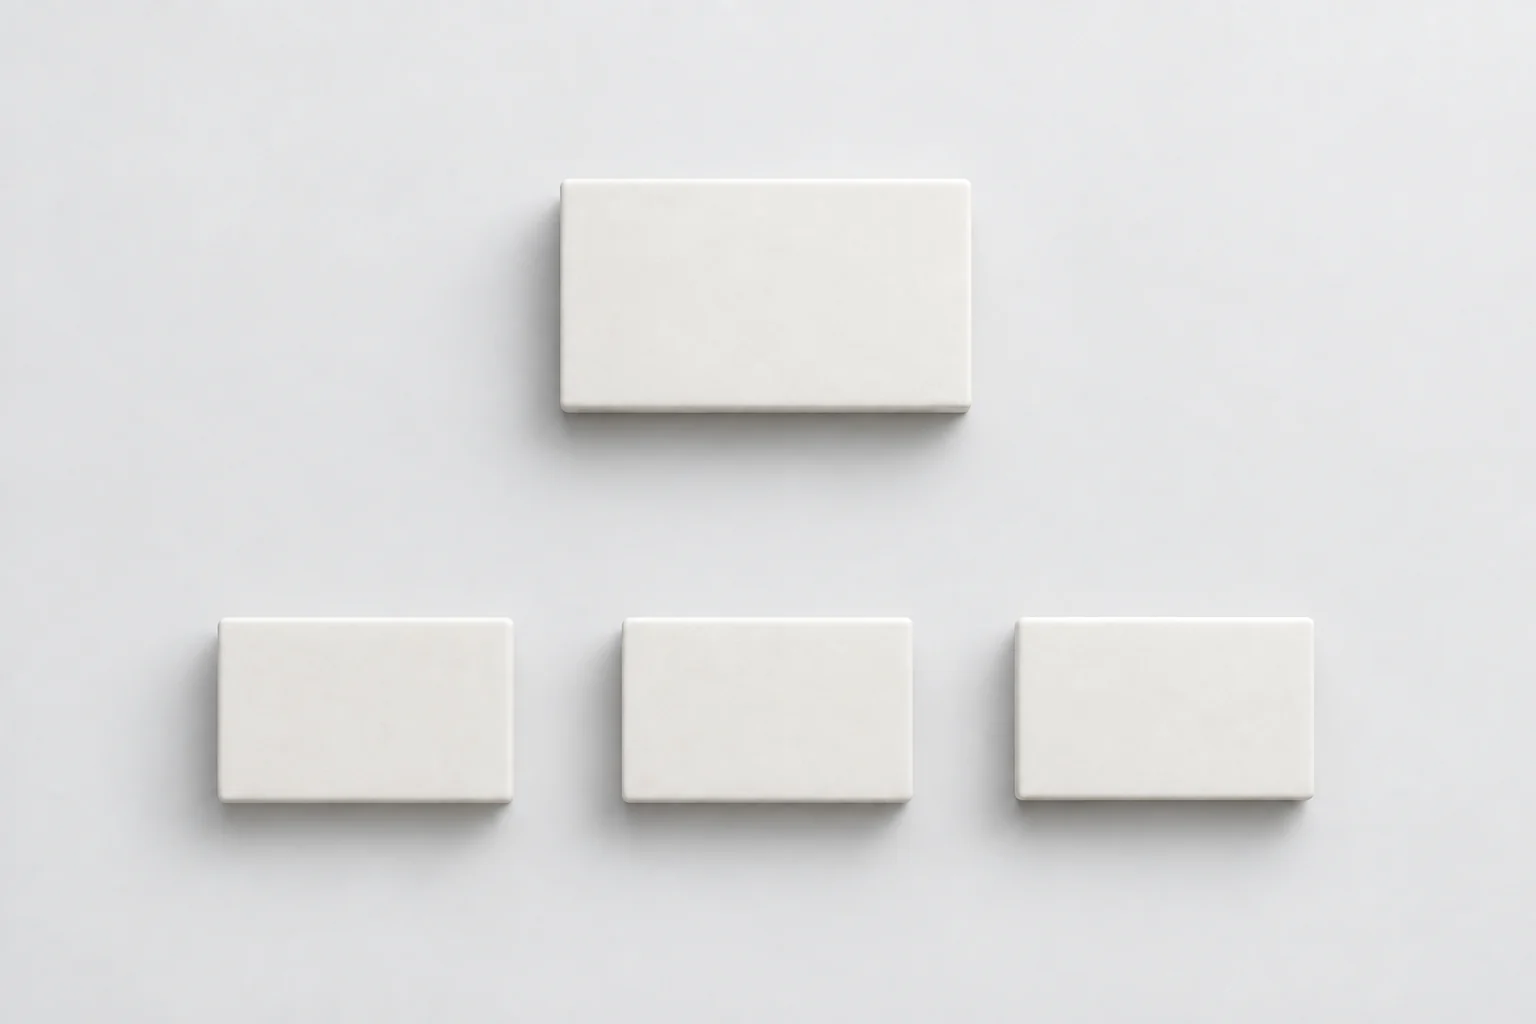
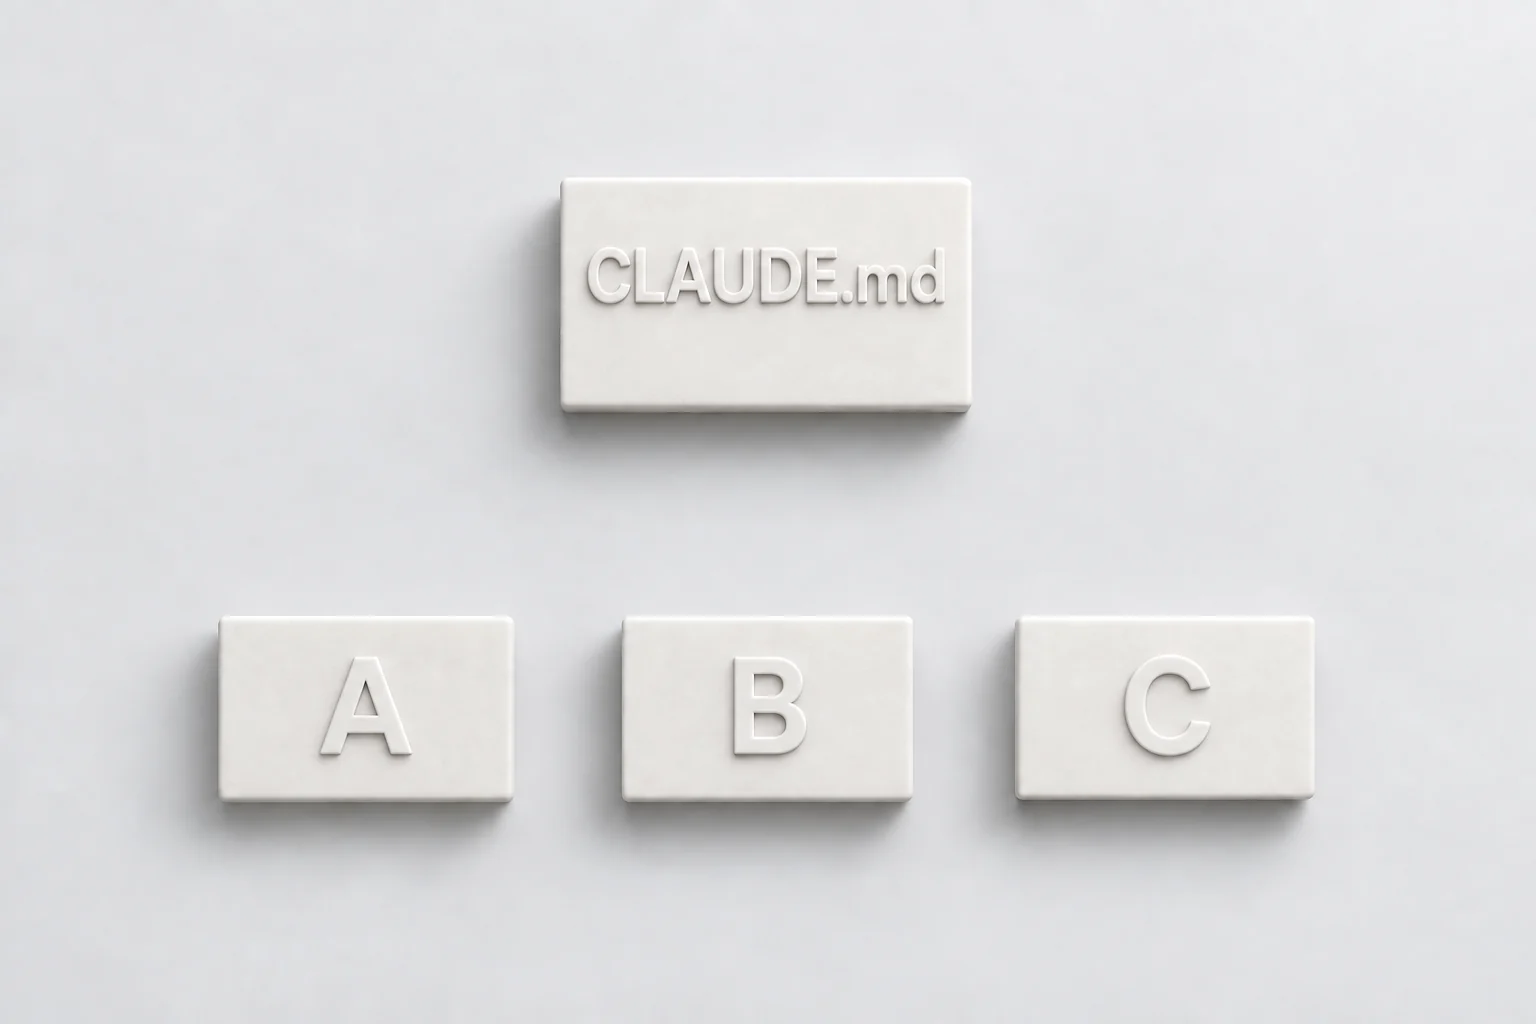
feat(web): 클레이 그림에 글씨 — 위 카드 CLAUDE.md · 아래 A·B·C · 단계 2 v1.1.0 · 단계 3 Roadmap (Codex 재생성 · 같은 구도)
사용자: 「클레이에 글씨들이 없잖아」. 여덟 장을 참고 이미지(-i)로 주고 새겨진 글씨만 더해 다시 뽑았다 —
전부 제품에 실제로 있는 이름·버전(데모 v1.1.0 · Before/After 의 A·B·C)이라 그림이 주장을 지어내지 않는다.
- public/art/*.webp 여덟 갈아 끼움 · art.ts 의 alt 에 글씨를 적음 · 원본·프롬프트·시트·GIF 는 evidence/…/art/labeled/

diff --git a/apps/web/src/lib/web/art.ts b/apps/web/src/lib/web/art.ts
@@ -5,7 +5,9 @@
 //    `.png` 0건). 그림 경로가 화면 코드에 박히면 그 규칙이 무너진다. ② og 이미지·랜딩이 같은 그림을 읽는다.
 //  ★ 그림은 **사람이 고른 생성 이미지**다 — 로컬 Codex CLI(imagegen)가 만든 후보를 보여 주고 사용자가 골랐다
 //    (`docs/evidence/2026-09-10-redesign/art/`). 코드로 그린 그림(SVG·Pillow)은 두지 않는다 — 사용자 지시.
-//  ⚠ 파일은 `public/art/` 의 WebP 다 (1536×1024 · 클레이 그림이라 16KB 안팎). 원본 PNG 는 evidence 에.
+//  ⚠ 파일은 `public/art/` 의 WebP 다 (1536×1024 · 클레이 그림이라 20KB 안팎). 원본 PNG 는 evidence 에.
+//  ⚠ 카드에는 글씨가 새겨져 있다(2026-09-10 사용자: 「클레이에 글씨들이 없잖아」) — 위 카드 `CLAUDE.md` · 아래 `A`·`B`·`C` · 단계 2 의 `v1.1.0` ·
+//     단계 3 의 `Roadmap`. 전부 제품에 실제로 있는 이름·버전(데모 v1.1.0 · Before/After 의 A·B·C)이다 — 없는 숫자·판정을 새기지 마라.
 //  ⚠ 대체텍스트는 **그림이 무엇인지**만 말한다 — 제품의 주장(숫자·판정)을 그림에 싣지 않는다 (DESIGN_BRIEF §2-1).
 // =====================================================================
 
@@ -22,7 +24,7 @@ export const ART = {
     src: '/art/hero-pack.webp',
     width: 1536,
     height: 1024,
-    alt: '두꺼운 카드 한 장에서 검은 실 세 가닥이 갈라져 아래의 똑같은 카드 셋에 닿는 클레이 그림 — 승인된 Pack 하나가 모든 기기에 같은 버전으로 닿는다',
+    alt: '「CLAUDE.md」라 새겨진 두꺼운 카드 한 장에서 검은 실 세 가닥이 갈라져 아래의 A·B·C 카드 셋에 닿는 클레이 그림 — 승인된 Pack 하나가 모든 기기에 같은 버전으로 닿는다',
   },
   /**
    * 히어로 스톱모션 — 같은 장면을 Codex 가 4장 더 뽑았다(실이 위 카드에서 세 기기로 내려오는 중간 장면 · 실 길이만 다르다).
@@ -45,19 +47,19 @@ export const ART = {
       src: '/art/step-make.webp',
       width: 1536,
       height: 1024,
-      alt: '얇은 클레이 판 다섯 장이 쌓여 있고 거기서 나온 검은 실들이 오른쪽의 두꺼운 카드 한 장으로 모이는 그림 — 문서에서 항목을 뽑아 하나로 정리한다',
+      alt: '얇은 클레이 판 다섯 장이 쌓여 있고 거기서 나온 검은 실들이 오른쪽의 「CLAUDE.md」 카드 한 장으로 모이는 그림 — 문서에서 항목을 뽑아 하나로 정리한다',
     },
     {
       src: '/art/step-distribute.webp',
       width: 1536,
       height: 1024,
-      alt: '똑같은 두꺼운 클레이 카드 셋이 한 줄로 서 있고 검은 실 하나가 셋을 같은 높이로 꿰뚫는 그림 — 같은 버전이 모두에게 닿는다',
+      alt: 'A·B·C 라 새겨진 클레이 카드 셋(각각 v1.1.0)이 한 줄로 서 있고 검은 실 하나가 셋을 같은 높이로 꿰뚫는 그림 — 같은 버전이 모두에게 닿는다',
     },
     {
       src: '/art/step-progress.webp',
       width: 1536,
       height: 1024,
-      alt: '긴 클레이 레일에 검은 조각이 왼쪽부터 삼분의 일 채워져 있고 옆에 확인 표시가 새겨진 작은 타일이 있는 그림 — 진행은 근거만큼 차고 완료는 사람이 확인한다',
+      alt: '「Roadmap」이라 새겨진 긴 클레이 레일에 검은 조각이 왼쪽부터 삼분의 일 채워져 있고 옆에 확인 표시가 새겨진 작은 타일이 있는 그림 — 진행은 근거만큼 차고 완료는 사람이 확인한다',
     },
   ] as readonly Artwork[],
 } as const

diff --git a/docs/evidence/2026-09-10-redesign/art/labeled/prompts-labeled.md b/docs/evidence/2026-09-10-redesign/art/labeled/prompts-labeled.md
@@ -1,0 +1,64 @@
+# Exact image edit prompts
+
+Generated with the built-in image generation tool in reference/edit mode.
+
+## frame-1.png
+
+```text
+Use case: precise-object-edit. Edit the supplied reference image, changing ONLY the requested embossed labels. Preserve exactly the reference style, composition, camera, lighting, matte white clay texture, light gray background, object positions, sizes, rounded edges, shadows, and black threads including their precise lengths and curves. Output one PNG at exactly 1536x1024 pixels. All text must be raised embossed SAME matte white clay with subtle contact shadows, clean neutral sans-serif, clearly legible. No ink, engraving, dark lettering, captions, watermarks, or other writing.
+Edit target: frame-1.png, frame 1 of a matching stop-motion sequence. Top thick card: centered one-line text exactly "CLAUDE.md". Bottom three cards: one large centered letter each, left to right exactly "A", "B", "C". Keep identical label size and placement across the five frames. No threads at all.
+```
+
+## frame-2.png
+
+```text
+Use case: precise-object-edit. Edit the supplied reference image, changing ONLY the requested embossed labels. Preserve exactly the reference style, composition, camera, lighting, matte white clay texture, light gray background, object positions, sizes, rounded edges, shadows, and black threads including their precise lengths and curves. Output one PNG at exactly 1536x1024 pixels. All text must be raised embossed SAME matte white clay with subtle contact shadows, clean neutral sans-serif, clearly legible. No ink, engraving, dark lettering, captions, watermarks, or other writing.
+Edit target: frame-2.png, frame 2 of a matching stop-motion sequence. Top thick card: centered one-line text exactly "CLAUDE.md". Bottom three cards: one large centered letter each, left to right exactly "A", "B", "C". Keep identical label size and placement across the five frames. Three short thread stubs only, identical to reference.
+Second input is the labeled frame-1 style/typography reference only: match its embossed lettering size, position, and appearance. First input is the edit target and strictly controls threads.
+```
+
+## frame-3.png
+
+```text
+Use case: precise-object-edit. Edit the supplied reference image, changing ONLY the requested embossed labels. Preserve exactly the reference style, composition, camera, lighting, matte white clay texture, light gray background, object positions, sizes, rounded edges, shadows, and black threads including their precise lengths and curves. Output one PNG at exactly 1536x1024 pixels. All text must be raised embossed SAME matte white clay with subtle contact shadows, clean neutral sans-serif, clearly legible. No ink, engraving, dark lettering, captions, watermarks, or other writing.
+Edit target: frame-3.png, frame 3 of a matching stop-motion sequence. Top thick card: centered one-line text exactly "CLAUDE.md". Bottom three cards: one large centered letter each, left to right exactly "A", "B", "C". Keep identical label size and placement across the five frames. Three threads extending halfway down the gap, identical to reference.
+Second input is the labeled frame-1 style/typography reference only: match its embossed lettering size, position, and appearance. First input is the edit target and strictly controls threads.
+```
+
+## frame-4.png
+
+```text
+Use case: precise-object-edit. Edit the supplied reference image, changing ONLY the requested embossed labels. Preserve exactly the reference style, composition, camera, lighting, matte white clay texture, light gray background, object positions, sizes, rounded edges, shadows, and black threads including their precise lengths and curves. Output one PNG at exactly 1536x1024 pixels. All text must be raised embossed SAME matte white clay with subtle contact shadows, clean neutral sans-serif, clearly legible. No ink, engraving, dark lettering, captions, watermarks, or other writing.
+Edit target: frame-4.png, frame 4 of a matching stop-motion sequence. Top thick card: centered one-line text exactly "CLAUDE.md". Bottom three cards: one large centered letter each, left to right exactly "A", "B", "C". Keep identical label size and placement across the five frames. Three threads extending three quarters down the gap, still disconnected, identical to reference.
+Second input is the labeled frame-1 style/typography reference only: match its embossed lettering size, position, and appearance. First input is the edit target and strictly controls threads.
+```
+
+## frame-5.png
+
+```text
+Use case: precise-object-edit. Edit the supplied reference image, changing ONLY the requested embossed labels. Preserve exactly the reference style, composition, camera, lighting, matte white clay texture, light gray background, object positions, sizes, rounded edges, shadows, and black threads including their precise lengths and curves. Output one PNG at exactly 1536x1024 pixels. All text must be raised embossed SAME matte white clay with subtle contact shadows, clean neutral sans-serif, clearly legible. No ink, engraving, dark lettering, captions, watermarks, or other writing.
+Edit target: frame-5.png, frame 5 of a matching stop-motion sequence. Top thick card: centered one-line text exactly "CLAUDE.md". Bottom three cards: one large centered letter each, left to right exactly "A", "B", "C". Keep identical label size and placement across the five frames. Three threads fully connected to the lower cards, identical to reference.
+Second input is the labeled frame-1 style/typography reference only: match its embossed lettering size, position, and appearance. First input is the edit target and strictly controls threads.
+```
+
+## step-1.png
+
+```text
+Use case: precise-object-edit. Edit the supplied reference image, changing ONLY the requested embossed labels. Preserve exactly the reference style, composition, camera, lighting, matte white clay texture, light gray background, object positions, sizes, rounded edges, shadows, and black threads including their precise lengths and curves. Output one PNG at exactly 1536x1024 pixels. All text must be raised embossed SAME matte white clay with subtle contact shadows, clean neutral sans-serif, clearly legible. No ink, engraving, dark lettering, captions, watermarks, or other writing.
+Edit target: step-1.png. Preserve the stack of thin blank sheets on the left, the converging threads, and thick card on the right. Emboss exactly "CLAUDE.md" centered on one line on the right thick card. All thin sheets remain blank.
+```
+
+## step-2.png
+
+```text
+Use case: precise-object-edit. Edit the supplied reference image, changing ONLY the requested embossed labels. Preserve exactly the reference style, composition, camera, lighting, matte white clay texture, light gray background, object positions, sizes, rounded edges, shadows, and black threads including their precise lengths and curves. Output one PNG at exactly 1536x1024 pixels. All text must be raised embossed SAME matte white clay with subtle contact shadows, clean neutral sans-serif, clearly legible. No ink, engraving, dark lettering, captions, watermarks, or other writing.
+Edit target: step-2.png. Preserve three identical thick cards in a horizontal row and the single black thread through all three. Emboss one large centered letter on each card, left to right exactly "A", "B", "C". Under each letter, emboss a smaller centered second line exactly "v1.1.0".
+```
+
+## step-3.png
+
+```text
+Use case: precise-object-edit. Edit the supplied reference image, changing ONLY the requested embossed labels. Preserve exactly the reference style, composition, camera, lighting, matte white clay texture, light gray background, object positions, sizes, rounded edges, shadows, and black threads including their precise lengths and curves. Output one PNG at exactly 1536x1024 pixels. All text must be raised embossed SAME matte white clay with subtle contact shadows, clean neutral sans-serif, clearly legible. No ink, engraving, dark lettering, captions, watermarks, or other writing.
+Edit target: step-3.png. Preserve the long rounded rail with its dark segment filling one third and the small square tile with its raised check mark. Emboss exactly "Roadmap" in small legible letters centered on the rail's upper edge area, above the recessed track. Keep the tile's check mark shape exactly and put no text on the tile.
+```
+

diff --git a/docs/STATUS.md b/docs/STATUS.md
@@ -5,7 +5,7 @@
 > **한 일이 아니라 잰 것을 써라.**
 > 「API 작업함」 ✗ / 「publish 409 재현 테스트 3개 초록, Pack 파일 6개, manifest_hash 고정」 ○
 
-_마지막 갱신: 2026-09-10 낮 · 사람 세션(루프 밖 · `loop/STOP` 그대로) · **프론트를 웜 화이트 한 벌로 리디자인**(Taste MCP anti-slop 지침 · 글꼴 저장소 안 · ci GREEN · 아직 push 전) · production <https://contextops-rosy.vercel.app> 은 아직 옛 다크 벌 · INBOX 의 Claude 몫 전부 ✅ · 남은 것은 🙋 8줄 + 이 세션의 🙋 셋._
+_마지막 갱신: 2026-09-10 오후 · 사람 세션(루프 밖 · `loop/STOP` 그대로) · **프론트 리디자인 push·배포 완료** — 뉴트럴 모노크롬 · Codex 클레이 그림 + 스톱모션 · 한 줄 「팀의 기억과 AI의 기억을 한 방향으로」 · production <https://contextops-rosy.vercel.app> 이 새 벌 (`verify:prod` 44/0 · 15:0x) · INBOX 의 Claude 몫 전부 ✅ · 남은 것은 🙋 8줄 + 이 세션의 🙋 둘(Taste 영구 로그인 · Taste 샘플)._
 
 ---
 
@@ -70,6 +70,13 @@ AI 산출물의 통계적 기본값으로 짚는다. 배포돼 있던 화면이 
 ⚠ 훅 시험이 **두 번째로** 빨갰다(14:41 · 같은 자리) → 원인을 잡았다: `GIT_TIMEOUT_MS` 1000 이 바쁜 Windows 에서 모자라 `changedPaths` 가 비어
 「변경 없음」으로 조용히 끝났다. git 1400 · 네트워크 2000 (합 4800 < 5000 · 시험이 센다) · 고친 뒤 `hooks.test` 3회 연속 초록.
 `tools/ci.ps1`: 2026-09-10 14:51 | principles OK | typecheck OK | test OK | build OK | walkthrough OK | docs OK => GREEN
+
+🔴 **다섯째 판 — push·배포, 그리고 클레이에 글씨** (사용자: 「클레이에 글씨들이 없잖아 · 문구 다 바꿨으면 push 배포도 해줘」).
+push: `375be95..504bb66` 일곱 커밋 → Vercel 이 새 벌을 냈다 — 랜딩 200 · `/art/hero-pack.webp` 200 · `/fonts/…` 200 · `verify:prod --url` **44/0** (`evidence/…/production/`).
+글씨: 여덟 장을 `-i` 참고로 주고 새겨진 글씨만 더해 Codex 로 다시 뽑았다 — 위 카드 `CLAUDE.md` · 아래 `A`·`B`·`C` · 단계 2 `v1.1.0` · 단계 3 `Roadmap`
+(전부 제품에 실제로 있는 이름·버전 · 없는 숫자·판정은 새기지 않았다). 다섯 프레임의 구도가 그대로였다(시트 `evidence/…/art/labeled/`). WebP 여덟 합 152KB · alt 갱신.
+⚠ 밟은 것: `art.ts` 머리 주석에 `//` 없는 줄을 끼워 넣어 typecheck·시험 셋이 빨갰다 — 주석 블록에 줄을 더할 때는 앞머리까지 같이.
+`tools/ci.ps1`: 2026-09-10 15:13 | principles OK | typecheck OK | test OK | build OK | walkthrough OK | docs OK => GREEN
 
 🙋 **사람이 할 것**: ① 터미널에서 `claude mcp login taste` 한 번 (이 세션의 토큰은 1시간짜리 스크래치다) ② Taste 앱에서 샘플을 저장하고
 「Generate profile」 — 그래야 `get_design_context` 가 내용을 준다 ③ Vercel 이 이 커밋을 배포한 뒤 production 을 눈으로 본다
